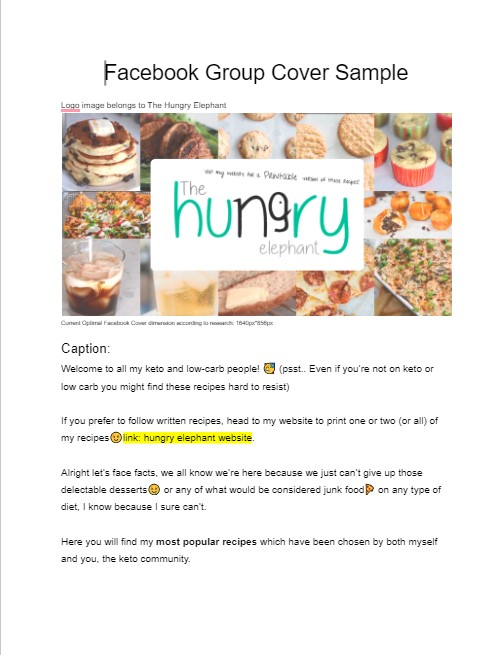
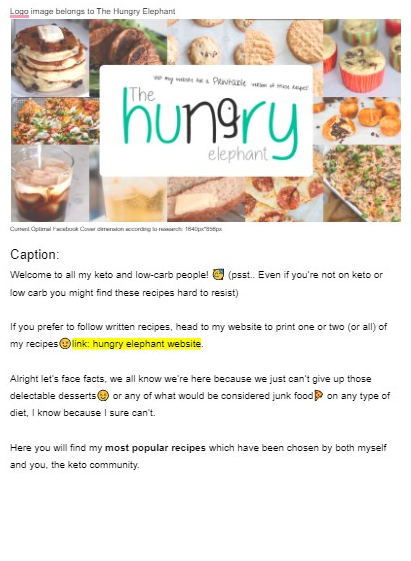
tweak css font sizes to be better on mobile -crop the hungry elephant image

diff --git a/resources/css/style.css b/resources/css/style.css
@@ -6,16 +6,21 @@ body {
 
 main p {
   font-family: merriweather-italic;
-  font-size: .625rem;
-  padding: 0 1rem;
+  font-size: .75rem;
 }
 
 figure {
-  padding: 1.5rem 0;
+  padding: rem 0;
 }
 
 figcaption {
-  font-size: .625rem;
+  font-size: .875rem;
+  padding: 2rem 0 1rem;
+}
+
+figcaption::before, figcaption::after {
+  content: " -- ";
+  color: #1A6757;
 }
 
 a {
@@ -30,15 +35,13 @@ h1 {
 
 h2 {
   font-size: 1rem;
+  background-color: #1A6757;
+  color: white;
 }
 
 h3 {
   font-family: merriweather-italic;
   font-size: .625rem;
-}
-
-section:nth-child(2n) {
-  background-color: rgb(200, 200, 200);
 }
 
 section:last-child {
@@ -57,7 +60,8 @@ header {
   display: flex;
   justify-content: space-between;
   background-color: black;
-  height: 3.5rem;
+  height: 4.5rem;
+  padding: .25rem;
 }
 
 header .extra-link {
@@ -92,7 +96,7 @@ main .hero {
     url("../images/backgrounds/systems-and-organization.png");
   background-size: cover;
   background-position: center;
-  height: 20rem;
+  height: 22rem;
   display: flex;
   align-items: center;
   color: #1A6757;
@@ -117,8 +121,9 @@ main .container:not(.hero) {
   font-size: .75rem;
 }
 
-.prosof-used, .skill{
+.prosof-used, .skill, footer {
   text-align: left;
+  padding: 0 1rem;
 }
 
 .skill {
@@ -136,7 +141,7 @@ footer {
 }
 
 footer p {
-  padding: .75rem;
+  padding: .5rem;
   font-family: merriweather-italic;
   text-align: left;
 }
@@ -147,5 +152,8 @@ footer a {
 }
 
 footer .credit {
-  font-size: 0.625rem;
+  font-size: .5rem;
+  position: relative;
+  left: -.6rem;
+  top: 1rem;
 }
